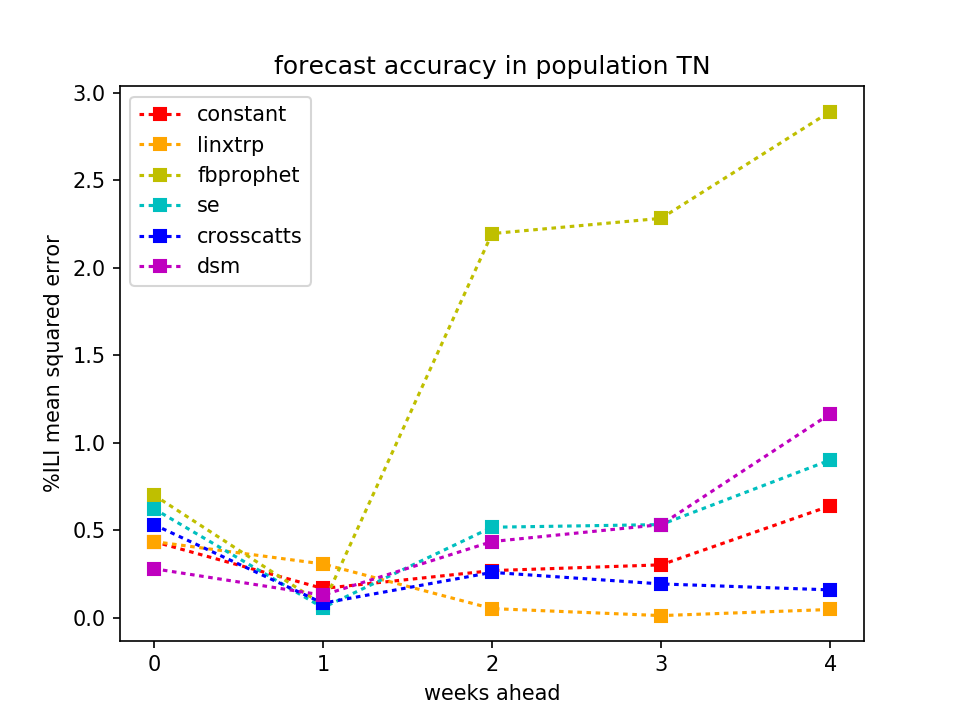
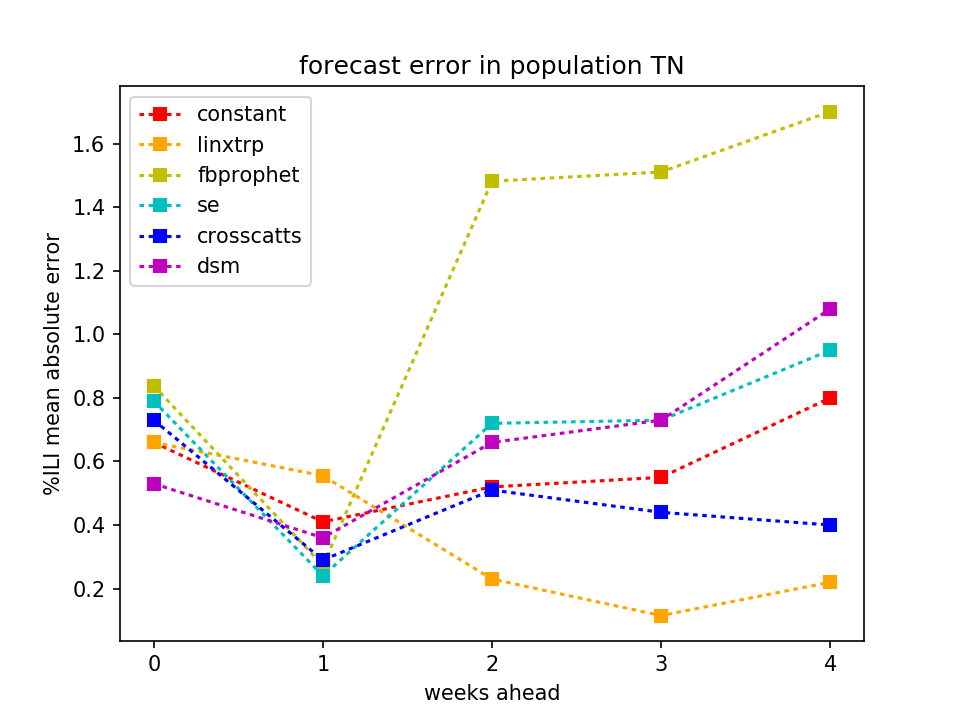
use mean absolute error rather than MSE in accuracy plots

diff --git a/Evaluator/eval2.py b/Evaluator/eval2.py
@@ -8,10 +8,10 @@ from os import listdir
 assert len(argv) == 3, 'usage: eval2.py [forecast dir] [reference CSV]'
 
 
-def mse(xys):
-    def sqerr((x, y)):
-        return (x - y) ** 2
-    return sum(map(sqerr, xys)) / len(xys)
+def mae(xys):
+    def abserr((x, y)):
+        return abs(x - y)
+    return sum(map(abserr, xys)) / len(xys)
 
 
 def table(filename):
@@ -51,7 +51,7 @@ for t in targets:
 
 for i in fcwd:
     for pop in fcwd[i]:
-        fcwd[i][pop] = round(mse(fcwd[i][pop]), 3)
+        fcwd[i][pop] = round(mae(fcwd[i][pop]), 3)
 
 ks = sorted(fcwd[0].keys())
 print(','.join(['WeeksAhead'] + ks))

diff --git a/Evaluator/eval2plot-pops.py b/Evaluator/eval2plot-pops.py
@@ -14,9 +14,9 @@ pop_cs = [pc for pc in [
             ] if pc[0] in data[0]]
 name = argv[1].split('/')[-1].split('.')[0]
 
-plt.title('forecast accuracy in population {}'.format(name))
+plt.title('forecast error in population {}'.format(name))
 plt.xlabel('weeks ahead')
-plt.ylabel('%ILI mean squared error')
+plt.ylabel('%ILI mean absolute error')
 plt.xticks(range(len(data) + 1))
 for pop, c in pop_cs:
     plt.plot([d[pop] if float(d[pop]) < 5 else None for d in data], ':s', label=pop, c=c)

diff --git a/Evaluator/eval2plot.py b/Evaluator/eval2plot.py
@@ -11,9 +11,9 @@ pcs = [k for k in [
        ] if k[0] in data[0]]
 name = argv[1].split('/')[-1].split('.')[0]
 
-plt.title('${}$ model forecast accuracy'.format(name))
+plt.title('${}$ model forecast error'.format(name))
 plt.xlabel('weeks ahead')
-plt.ylabel('%ILI mean squared error')
+plt.ylabel('%ILI mean absolute error')
 plt.xticks(range(len(data) + 1))
 for (p, c) in pcs:
     plt.plot([d[p] for d in data], ':s', label=p, c=c, alpha=0.6)

diff --git a/Evaluator/README.md b/Evaluator/README.md
@@ -54,71 +54,78 @@ Forecast accuracy was evaluated for each model, and for each of these five weeks
 
 ### MIT *per* model
 (Only evaluated in Region 4)
+[**CSV**](results/per.csv)
 
 | forecasts | accuracy |
 | --------- | -------- |
-| ![per forecast animation](results/per.gif) | ![per MSE](results/per.png) |
+| ![per forecast animation](results/per.gif) | ![per MAE](results/per.png) |
 
-Although *per* appears to perform quite well for Region 4 in the 2015-2016 flu season (despite missing the gap between the double peaks), this particular target season happens to be of average timing and magnitude.
+Although *per* appears to perform quite well for Region 4 in the 2015-2016 flu season (despite missing the gap between the double peaks), this particular target season's peak happens to be of average timing and magnitude.
 Both of these quantities vary considerably between seasons, but the model forecasts approximately the same time series for each season, and does not respond to new data as the season progresses.
 
 ---
 
 ### MIT *se* model
 (The team's preferred solution)
+[**CSV**](results/se.csv)
 
 | forecasts | accuracy |
 | --------- | -------- |
-| ![se forecast animation](results/se.gif) | ![se MSE](results/se.png) |
+| ![se forecast animation](results/se.gif) | ![se MAE](results/se.png) |
 
 ---
 
 ### MIT *crosscatts* model
 (Not evaluated in *USA* population)
+[**CSV**](results/crosscatts.csv)
 
 | forecasts | accuracy |
 | --------- | -------- |
-| ![crosscatts forecast animation](results/crosscatts.gif) | ![crosscatts MSE](results/crosscatts.png) |
+| ![crosscatts forecast animation](results/crosscatts.gif) | ![crosscatts MAE](results/crosscatts.png) |
 
 ---
 
 ### MIT *dsm* model
 (Not evaluated in *USA* population)
+[**CSV**](results/dsm.csv)
 
 | forecasts | accuracy |
 | --------- | -------- |
-| ![dsm forecast animation](results/dsm.gif) | ![dsm MSE](results/dsm.png) |
+| ![dsm forecast animation](results/dsm.gif) | ![dsm MAE](results/dsm.png) |
 
 ---
 
 ### *fbprophet* model
 (Negative rates in the smaller populations may be due to very wide confidence intervals)
+[**CSV**](results/fbprophet.csv)
 
 | forecasts | accuracy |
 | --------- | -------- |
-| ![fbprophet forecast animation](results/fbprophet.gif) | ![fbprophet MSE](results/fbprophet.png) |
+| ![fbprophet forecast animation](results/fbprophet.gif) | ![fbprophet MAE](results/fbprophet.png) |
 
 ---
 
 ### *constant* model
+[**CSV**](results/constant.csv)
 
 | forecasts | accuracy |
 | --------- | -------- |
-| ![constant forecast animation](results/constant.gif) | ![constant MSE](results/constant.png) |
+| ![constant forecast animation](results/constant.gif) | ![constant MAE](results/constant.png) |
 
 ---
 
 ### *linxtrp* model
 (Badly affected by noise in the smaller populations!)
+[**CSV**](results/linxtrp.csv)
 
 | forecasts | accuracy |
 | --------- | -------- |
-| ![linxtrp forecast animation](results/linxtrp.gif) | ![linxtrp MSE](results/linxtrp.png) |
+| ![linxtrp forecast animation](results/linxtrp.gif) | ![linxtrp MAE](results/linxtrp.png) |
 
 
 ## Model comparisons
 
-The above MSE per forecast week accuracy metric is shown here for each evaluated model in the four target populations.
+The above MAE per forecast week accuracy metric is shown here for each evaluated model in the four target populations.
 
 ![USA comparison](results/USA.png)
 ![R04 comparison](results/R04.png)
